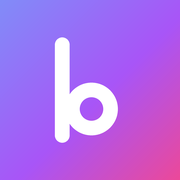
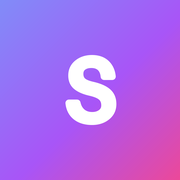
admin, core, pro: rename product from Binders to Scalar
Updates docs (README, SPEC, SECURITY, LANDING, DOCUMENTATION), templates,
favicons/icons, manifests, and remaining code/config references from
Binders to Scalar across all three apps.

Changed region(s): [[0.2778, 0.1944, 0.6667, 0.8056], [0.6111, 0.5, 0.6389, 0.5278], [0.5833, 0.4722, 0.6111, 0.5]]

diff --git a/templates/layout.html b/templates/layout.html
@@ -20,9 +20,9 @@
   <meta name="apple-mobile-web-app-capable" content="yes">
   <meta name="mobile-web-app-capable" content="yes">
   <meta name="apple-mobile-web-app-status-bar-style" content="black-translucent">
-  <meta name="apple-mobile-web-app-title" content="Binders Pro">
+  <meta name="apple-mobile-web-app-title" content="Scalar Pro">
   <meta name="theme-color" content="#0a0a0b">
-  <!-- Apply the saved theme (localStorage 'binders-pro:theme', set live by
+  <!-- Apply the saved theme (localStorage 'scalar-pro:theme', set live by
        the Settings page) before the stylesheets below load, so the page
        paints in the right palette from the first frame instead of flashing
        dark then switching to light. Must stay inline/synchronous and come
@@ -31,7 +31,7 @@
   <script>
     (function () {
       try {
-        var t = localStorage.getItem('binders-pro:theme');
+        var t = localStorage.getItem('scalar-pro:theme');
         if (t !== 'light' && t !== 'dark') t = 'dark';
         document.documentElement.style.colorScheme = t;
         document.documentElement.style.background = (t === 'light') ? '#f7f7f8' : '#0a0a0b';
@@ -64,7 +64,7 @@
     <aside class="sidebar">
       <div class="sidebar-logo">
         <div class="logo-mark">{{(user.name or "?")[0].upper()}}</div>
-        <span class="ws-name">Binders Pro</span>
+        <span class="ws-name">Scalar Pro</span>
         <label for="nav-toggle" class="sidebar-close" aria-label="Close menu">
           <svg width="16" height="16" viewBox="0 0 24 24" fill="none" stroke="currentColor" stroke-width="1.75" stroke-linecap="round"><path d="M6 6l12 12M18 6L6 18"/></svg>
         </label>
@@ -280,7 +280,7 @@
   <div class="auth-shell">
     <div class="auth-brand">
       <div class="logo-mark">B</div>
-      <span>Binders Pro</span>
+      <span>Scalar Pro</span>
     </div>
     %include('_toasts', flashes=get_flashed_messages())
     {{!base}}

diff --git a/templates/dashboard/dashboard.html b/templates/dashboard/dashboard.html
@@ -15,7 +15,7 @@
   %if capture['note']:
     %n = len(capture['proposal'])
     <div class="capture-head">
-      <h2 class="capture-title">Binders found {{n}} record{{'' if n == 1 else 's'}}.</h2>
+      <h2 class="capture-title">Scalar found {{n}} record{{'' if n == 1 else 's'}}.</h2>
       <p class="capture-sub">From “{{capture['note'].title}}”. Untick anything you don't want.</p>
     </div>
     <form method="post" action="{{url_for('capture_confirm', note_id=capture['note'].id)}}">
@@ -47,7 +47,7 @@
   %else:
     <div class="capture-head">
       <h2 class="capture-title">What happened today?</h2>
-      <p class="capture-sub">Paste a meeting note, an email, or a brain dump — Binders proposes the records to keep.</p>
+      <p class="capture-sub">Paste a meeting note, an email, or a brain dump — Scalar proposes the records to keep.</p>
     </div>
     <form method="post" action="{{url_for('capture_read')}}">
       <input type="hidden" name="_csrf_token" value="{{csrf_token()}}">

diff --git a/templates/settings.html b/templates/settings.html
@@ -78,7 +78,7 @@
 %end
 
 <script>
-  // Theme preference is client-only (localStorage 'binders-core:theme');
+  // Theme preference is client-only (localStorage 'scalar-core:theme');
   // layout.html's <head> script applies it to <html> before first paint —
   // see that file for why "the color-scheme actually in effect" (not a
   // separate data-theme attribute) is the single source of truth here.
@@ -86,7 +86,7 @@
   (() => {
     const group = document.querySelector('[data-theme-toggle]');
     if (!group) return;
-    const KEY = 'binders-core:theme';
+    const KEY = 'scalar-core:theme';
     const options = [...group.querySelectorAll('[data-theme-value]')];
 
     const current = () => document.documentElement.style.colorScheme || 'dark';

diff --git a/templates/capture/note_detail.html b/templates/capture/note_detail.html
@@ -22,7 +22,7 @@
 
     %if proposal:
       <h2>Waiting on you</h2>
-      <p class="muted">Binders read this note and proposed {{len(proposal)}} record{{'' if len(proposal) == 1 else 's'}}.</p>
+      <p class="muted">Scalar read this note and proposed {{len(proposal)}} record{{'' if len(proposal) == 1 else 's'}}.</p>
       <p><a class="button btn btn-primary" href="{{url_for('dashboard', _query={'review': note.id})}}">Review them</a></p>
     %end
 

diff --git a/mcp_server.py b/mcp_server.py
@@ -1,4 +1,4 @@
-"""MCP (Model Context Protocol) server for Binders Pro — stdio transport.
+"""MCP (Model Context Protocol) server for Scalar Pro — stdio transport.
 
 Hand-rolled JSON-RPC 2.0 over stdin/stdout, per MCP's stdio transport spec
 (https://modelcontextprotocol.io) — not the `mcp` pip package. That keeps
@@ -28,7 +28,7 @@ same convention seed.py uses for its own standalone `__main__` block.
 Run directly — this is the entrypoint an MCP client launches as a
 subprocess, e.g. in Claude Desktop's config:
 
-    { "mcpServers": { "binders-pro": {
+    { "mcpServers": { "scalar-pro": {
         "command": "python3", "args": ["/absolute/path/to/pro/mcp_server.py"]
     } } }
 
@@ -78,7 +78,7 @@ from models import User, db, ensure_schema  # noqa: E402
 import ai  # noqa: E402
 
 PROTOCOL_VERSION = "2025-06-18"
-SERVER_INFO = {"name": "binders-pro", "version": "1.0.0"}
+SERVER_INFO = {"name": "scalar-pro", "version": "1.0.0"}
 
 
 def _actor() -> User | None:
@@ -155,7 +155,7 @@ def _handle(msg: dict) -> dict | None:
 def main() -> None:
     ensure_schema()
     db.connect(reuse_if_open=True)
-    print("Binders Pro MCP server ready (stdio).", file=sys.stderr, flush=True)
+    print("Scalar Pro MCP server ready (stdio).", file=sys.stderr, flush=True)
     try:
         for raw in sys.stdin:
             line = raw.strip()

diff --git a/utils.py b/utils.py
@@ -43,7 +43,7 @@ _SESSION_ENVIRON_KEY = "templateapp.session"
 def _secret_key() -> str:
     # Re-read on each call (cheap) so a freshly-edited .env is picked up
     # under dev-server reload without restarting the process.
-    return os.environ.get("SECRET_KEY", "binders-core-dev-secret-change-in-production")
+    return os.environ.get("SECRET_KEY", "scalar-core-dev-secret-change-in-production")
 
 
 def _b64encode(raw: bytes) -> str:
@@ -415,7 +415,7 @@ class Mailer:
                 # a bare 403 with no JSON body, easy to mistake for a Resend
                 # API error (invalid key, unverified domain, ...) instead of
                 # what it actually is. Any non-default value clears it.
-                "User-Agent": "Binders/1.0",
+                "User-Agent": "Scalar/1.0",
             },
             method="POST",
         )

diff --git a/ai.py b/ai.py
@@ -1957,7 +1957,7 @@ def _describe_tool_call(name: str, args: dict) -> str:
 # Chat
 # ---------------------------------------------------------------------------
 
-SYSTEM_PROMPT = """You are an assistant embedded in Binders Pro, the operating system a small \
+SYSTEM_PROMPT = """You are an assistant embedded in Scalar Pro, the operating system a small \
 company runs on. There is only one team using this app — no workspaces, no other tenants.
 
 The records are: Customers (stored as clients: name, email, phone, company, status \

diff --git a/models.py b/models.py
@@ -1,4 +1,4 @@
-"""Peewee models for Binders Pro.
+"""Peewee models for Scalar Pro.
 
 Single-tenant: there is no Workspace concept at all — one instance == one
 customer. Schema changes ship as idempotent "does this column exist yet"

diff --git a/DOCUMENTATION.md b/DOCUMENTATION.md
@@ -1,4 +1,4 @@
-# Binders Pro — Feature Documentation
+# Scalar Pro — Feature Documentation
 
 This describes what's actually built, for a person (or an agent) picking up
 this project without prior context. Code comments cover *why* a given line
@@ -142,7 +142,7 @@ no JavaScript, and the review panel opens in the same slot so nothing scrolls.
 3. **Review** — the same panel comes back showing the proposal as a ledger,
    one row per proposed record with a four-letter type tag (`CUST` `WHO`
    `DEAL` `PROJ` `TASK` `PROM` `DECN`) and a ticked checkbox. Header reads
-   "Binders found 6 records."; the button reads **Create 6 records**. The
+   "Scalar found 6 records."; the button reads **Create 6 records**. The
    proposal lives on the note row and the state is a URL (`/?review=<id>`),
    so a refresh loses nothing.
 4. **Create** — only ticked records are created. Customers and people are
@@ -365,7 +365,7 @@ can call Pro's data directly instead of through the `/chat` UI. Run as a
 subprocess, not as part of the web app:
 
 ```json
-{ "mcpServers": { "binders-pro": {
+{ "mcpServers": { "scalar-pro": {
     "command": "python3", "args": ["/absolute/path/to/pro/mcp_server.py"]
 } } }
 ```
@@ -488,7 +488,7 @@ notification still goes out either way.
 ## Interface & behavior
 
 - **Theme**: dark by default; the Settings toggle writes
-  `localStorage['binders-pro:theme']` and sets `document.documentElement
+  `localStorage['scalar-pro:theme']` and sets `document.documentElement
   .style.colorScheme`. `style.css`'s `:root` tokens are all defined with CSS
   `light-dark()`, which resolves off that `color-scheme` value — flipping it
   is the entire retheme, no second `[data-theme]` override block to keep in

diff --git a/README.md b/README.md
@@ -1,10 +1,10 @@
-# Binders Pro
+# Scalar Pro
 
 A small startup operating system: the customers you're selling to, the work
 you owe them, the promises people made, and the decisions you took — with a
 box on the dashboard that turns a pasted meeting note into all four.
 
-Built on [Binders Core](../core): same Bottle + peewee + SQLite architecture,
+Built on [Scalar Core](../core): same Bottle + peewee + SQLite architecture,
 same zero-dependency constraint, same conventions. Core is Clients and Tasks;
 Pro adds People, Projects, Opportunities, Commitments, Decisions and Notes,
 and two screens that read the whole company back to you.
@@ -24,7 +24,7 @@ overdue, at risk, gone quiet, or owned by nobody, sorted by how long it's been
 that way. Plus a table of who promised what this week.
 
 **Capture** — the box at the top of the dashboard. Paste a meeting note, an
-email, or a brain dump; Binders proposes the records worth keeping, you tick
+email, or a brain dump; Scalar proposes the records worth keeping, you tick
 the ones you want, and they appear across the customer, the pipeline and the
 commitments — each linked back to the text it came from.
 

diff --git a/SPEC.md b/SPEC.md
@@ -1,4 +1,4 @@
-# Binders Pro — Startup OS Demo Spec
+# Scalar Pro — Startup OS Demo Spec
 
 # Product goal
 
@@ -222,7 +222,7 @@ The COO should be able to answer:
 
 # 3. Text → Business State
 
-This is the Binders-specific magic.
+This is the Scalar-specific magic.
 
 Create a prominent action:
 
@@ -234,7 +234,7 @@ Example:
 
 > Met with Acme today. They want the enterprise plan at around $50k/year. They need SSO before signing. João will investigate the integration and I'll send a proposal Friday. They're also talking to Competitor X.
 
-Binder analyzes it and proposes:
+Scalar analyzes it and proposes:
 
 # Customer
 
@@ -317,7 +317,7 @@ Search everything.
 
 A single search box:
 
-> Search Binders...
+> Search Scalar...
 
 Search:
 
@@ -479,7 +479,7 @@ I'd structure the demo around **one story**, not feature tours.
 
 # Scene 1 — CEO
 
-Open Binders.
+Open Scalar.
 
 > “I haven't looked at the company yet today.”
 
@@ -520,7 +520,7 @@ Open Capture.
 
 Paste the messy Acme meeting.
 
-Binders extracts the business state.
+Scalar extracts the business state.
 
 Confirm.
 

diff --git a/AGENTS.md b/AGENTS.md
@@ -1,4 +1,4 @@
-# AGENTS.md — working on Binders Pro
+# AGENTS.md — working on Scalar Pro
 
 Guidance for whoever (human or agent) changes this project next.
 
